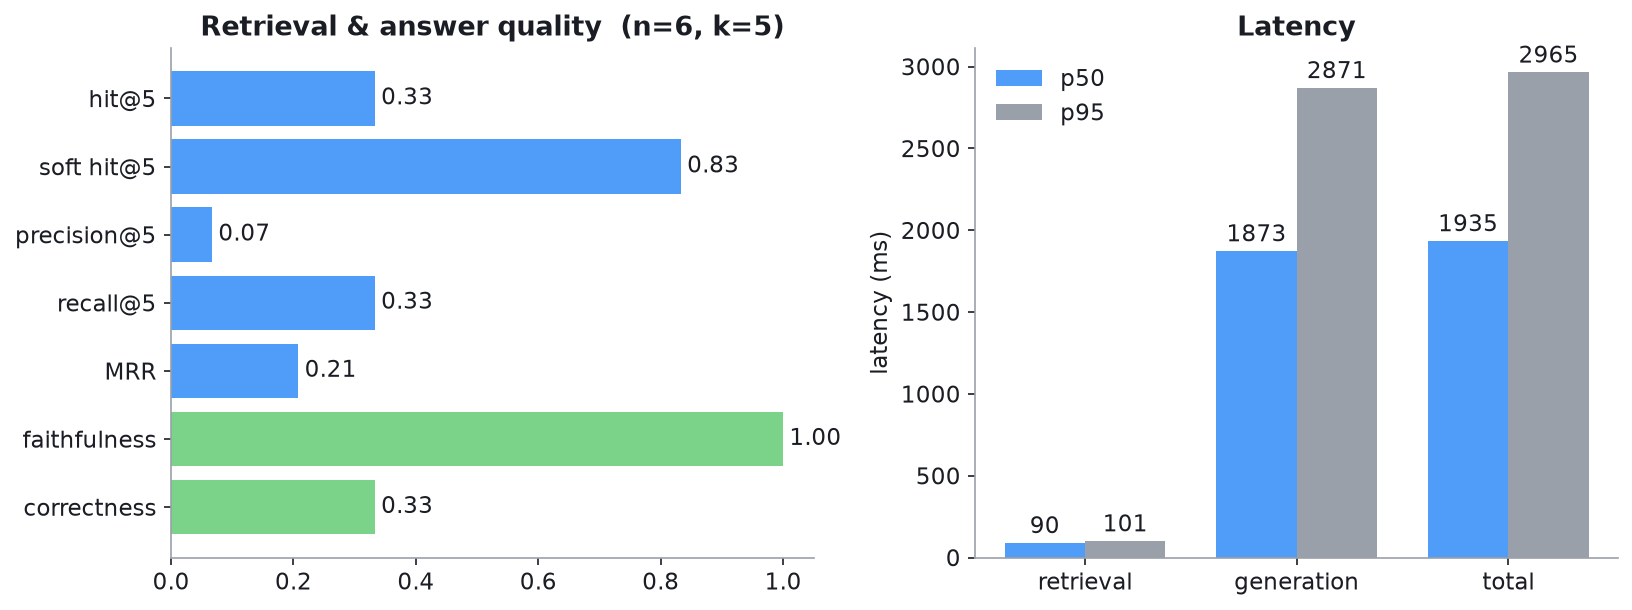
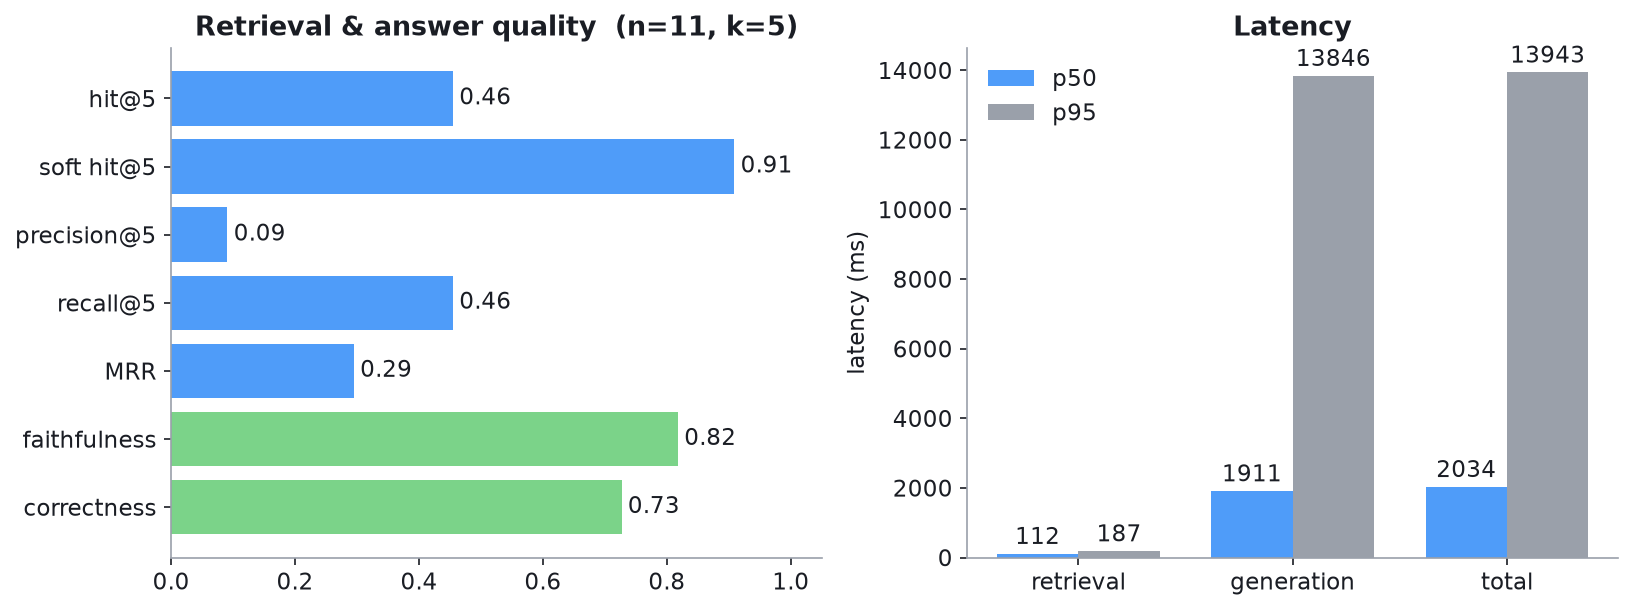
Refresh eval results (n=11) and broaden model configuration
Re-ran the evaluation spreading the answer call and the two judge calls
across three Gemini models, which fits the free-tier per-model daily cap
and lifted the sample from 6 to 11 questions. Updates the README results
table and interpretation, regenerates docs/eval.png, and widens llm.py's
thinking-disable (now also matches *-latest aliases) and retry handling
(transient network/DNS errors).

diff --git a/src/secrag/llm.py b/src/secrag/llm.py
@@ -39,9 +39,10 @@ def _gen_config(system: str, max_tokens: int, model: str, temperature: float,
         "max_output_tokens": max_tokens,
         "temperature": temperature,
     }
-    # 2.5 models "think" by default, which can eat the whole token budget and
-    # return empty text. We don't need it for grounded extraction/judging.
-    if model.startswith("gemini-2.5"):
+    # 2.5-era flash models "think" by default, which can eat the whole token
+    # budget and return empty text. We don't need it for grounded extraction or
+    # judging. The "*-latest" aliases also point at 2.5-era models.
+    if model.startswith("gemini-2.5") or "latest" in model:
         kwargs["thinking_config"] = types.ThinkingConfig(thinking_budget=0)
     if schema is not None:
         kwargs["response_mime_type"] = "application/json"

diff --git a/README.md b/README.md
@@ -25,29 +25,31 @@ reproducible from `eval/run_eval.py`.
 
 | Metric | Value | Reading |
 |---|---|---|
-| `hit@5` (exact gold chunk) | 0.33 | the exact labeled chunk lands in the top 5 |
-| `soft hit@5` (gold section) | **0.83** | the right filing + section lands in the top 5 |
-| `faithfulness` | **1.00** | answers stay grounded in the retrieved text |
-| `correctness` | 0.33 | answer matches the gold answer |
-| retrieval latency (p50) | **90 ms** | local embeddings, no API round-trip |
-| total latency (p50 / p95) | 1.9 s / 3.0 s | generation dominates |
+| `hit@5` (exact gold chunk) | 0.45 | the exact labeled chunk lands in the top 5 |
+| `soft hit@5` (gold section) | **0.91** | the right filing + section lands in the top 5 |
+| `faithfulness` | **0.82** | answers stay grounded in the retrieved text |
+| `correctness` | **0.73** | answer matches the gold answer |
+| retrieval latency (p50) | **112 ms** | local embeddings, no API round-trip |
+| total latency (p50 / p95) | 2.0 s / 13.9 s | generation dominates; p95 is one slow call |
 
-The gap between `hit@5` (0.33) and `soft hit@5` (0.83) is the interesting part.
-The retriever reliably finds the right section of the right filing; it just
+The gap between `hit@5` (0.45) and `soft hit@5` (0.91) is the interesting part.
+The retriever almost always finds the right section of the right filing; it just
 often returns a neighboring chunk rather than the one exact chunk a question was
-written from, because adjacent chunks in a section overlap and look almost
+written from, because adjacent chunks in a section overlap and look nearly
 identical to the embedder. So `soft hit@5` is the fairer read of retrieval, and
-the clearest lever for lifting answer correctness is chunk granularity (or hybrid
-lexical and dense retrieval) rather than more prompt tuning. Faithfulness sitting
-at 1.00 says the grounding prompt is doing its job: the model answers from the
-retrieved text instead of its own memory.
+answer correctness (0.73) tracks it: when the right section makes the top 5, the
+model usually gets the answer right. Faithfulness at 0.82 means most answers stay
+grounded in the retrieved text, with the occasional claim the judge couldn't tie
+back to a source — the per-question `unsupported_claims` in `results.json` make
+those easy to spot-check. The clearest lever from here is finer chunk granularity
+(or hybrid lexical + dense retrieval) rather than more prompt tuning.
 
-> **On sample size.** The eval ran on n=6 because Google's Gemini free tier
-> caps usage at 20 requests/day/model, and a full pass needs three calls per
-> question (answer + two judges). The harness itself runs at any N: point it at
-> a larger labeled set, or spread the answer/faithfulness/correctness calls
-> across separate models, and it scales. The methodology is the deliverable, and
-> the numbers refresh with one command.
+> **On sample size.** The eval ran on n=11 — 6 of the 17 labeled questions were
+> skipped when a model hit Google's Gemini free-tier cap of 20 requests/day/model
+> (a full pass needs three calls per question, spread across three models). The
+> harness itself runs at any N: point it at a larger labeled set or wire in more
+> models, and it scales. The methodology is the deliverable, and the numbers
+> refresh with one command.
 
 ## How it works
 